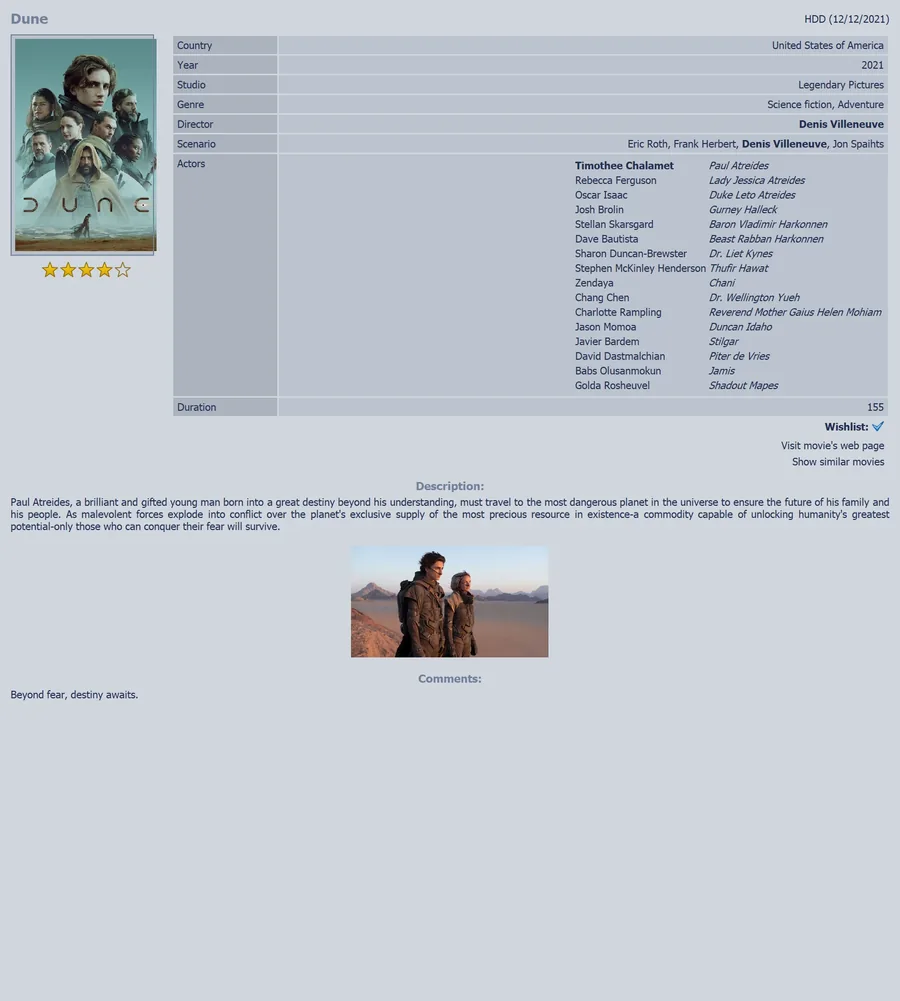
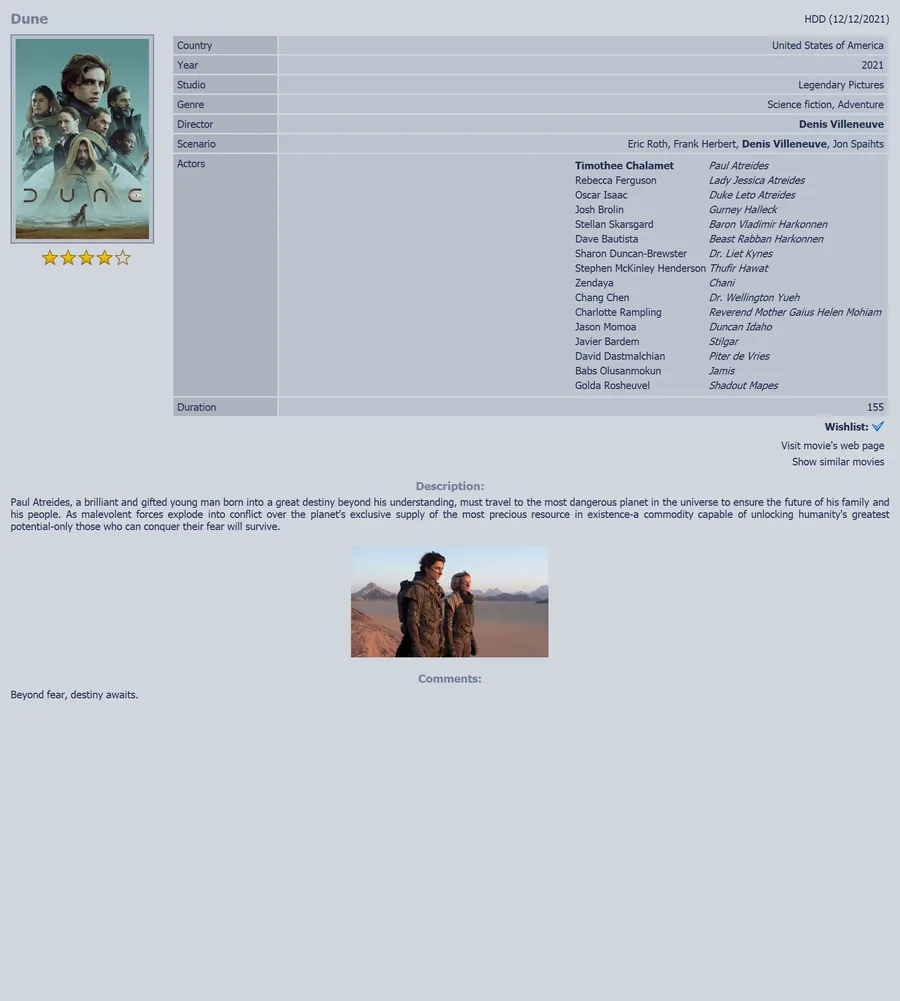
Lite Gray: cover overflowed the frame on the right

Changed region(s): [[0.0, 0.031, 0.1867, 0.2787]]

diff --git a/moviecards/Lite Gray/template.html b/moviecards/Lite Gray/template.html
@@ -33,8 +33,8 @@ td.maincol { padding: 0.4em 0.5em; }
 	background-color: #d0d5dd;
 	border-bottom: 0.1em solid #728199;
 }
-.poster .pic { padding: 0.35em; text-align: center; }
-#cover { width: 100%; }
+.poster .pic { padding: 0.35em 0; text-align: center; }
+#cover { width: 13.2em; }
 .stars { text-align: center; margin-top: 0.5em; }
 .stars a { border: none; }
 .stars a:hover { text-decoration: none; }
